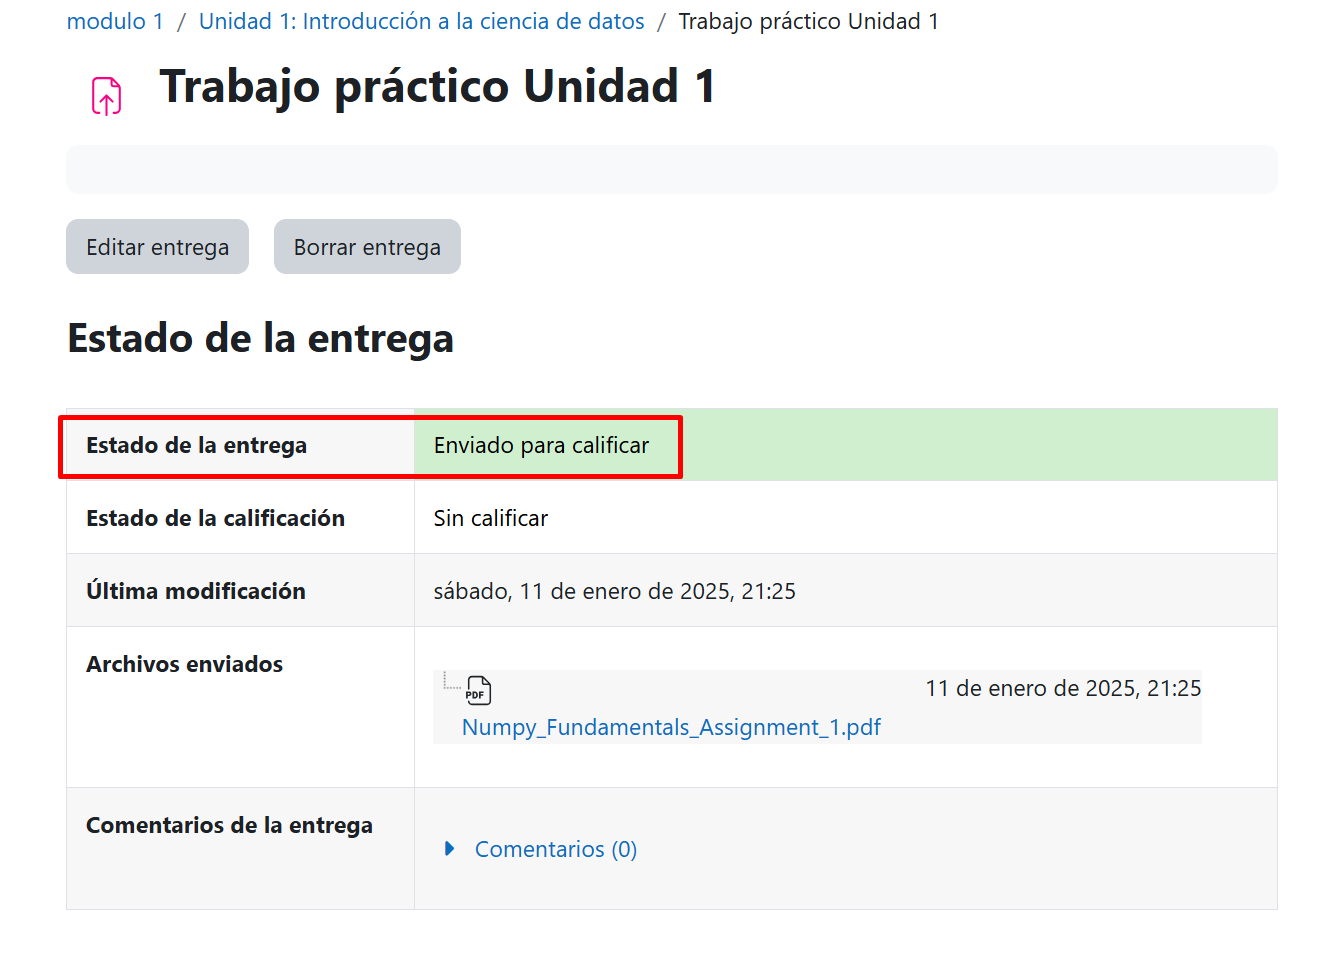
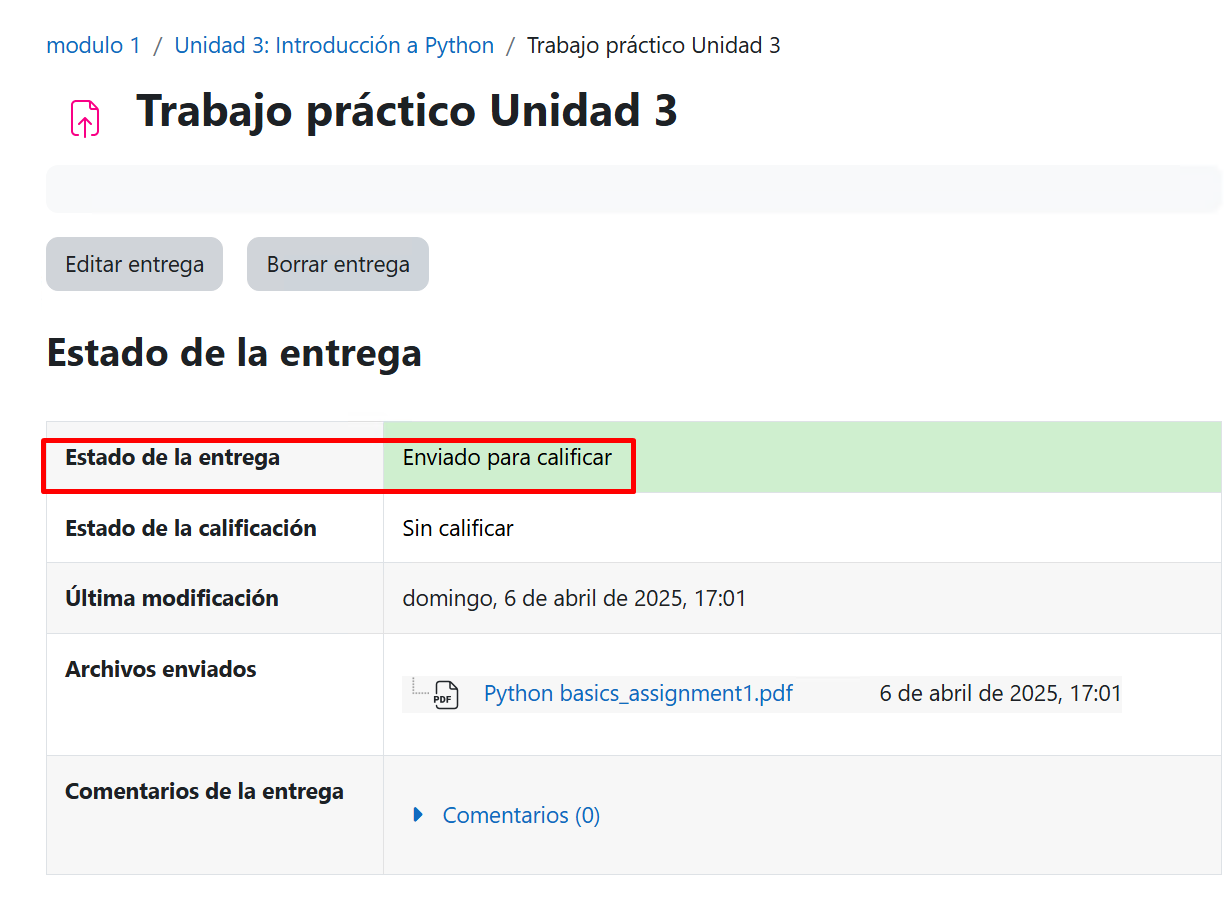
April updates - Readme file -Python Basic

diff --git a/4-Python-Basic/README.md b/4-Python-Basic/README.md
@@ -44,18 +44,18 @@ Run the following commands in a terminal to verify that both tools are installed
 
 ![alt text](images/image.png)
 
-
 6. Access the Options Menu: The user clicks on the ... (three dots) menu located at the top-right corner of the notebook interface.
 
 Select "Export": From the dropdown menu that appears, the user clicks on the Export option.
 
-![alt text](images/image-14.png)
-![alt text](images/image-15.png)
+![alt text](images/image-40.png)
+![alt text](images/image-41.png)
 
 
 5. Save the notebook 
 
-![alt text](images/image-2.png)
+![alt text](images/image-42.png)
+
 
 6. Install the missing packages.
 
@@ -74,17 +74,20 @@ Note: The first time, the process will take about 5 minutes or more, depending o
 
 ![alt text](images/image-25.png)
 
+
 ## Upload the PDF file to the Khipus.ai Virtual Campus: 
 
 1. Logs into the Khipus.ai platform using your credentials https://campus.khipus.ai/login/index.php
 
 ![alt text](images/image-26.png)
 
-2. Navigate to the "Actividades" (Activities) section under "Unidad 1: Introducción a la Ciencia de Datos." and select the "Trabajo práctico Unidad 1" 
-![alt text](images/image-27.png)
+2. Navigate to the "Actividades" (Activities) section under "Unidad 3: Introducción a Python" and select the "Trabajo práctico Unidad 3" 
+![alt text](images/image-43.png)
+
 
 3. Click "Agregar entrega" (Add Submission) button to start the process of submitting the assignment.
-![alt text](images/image-28.png)
+![alt text](images/image-44.png)
+![alt text](image-45.png)
 
 4. "Choose File" and selects the PDF file
 
